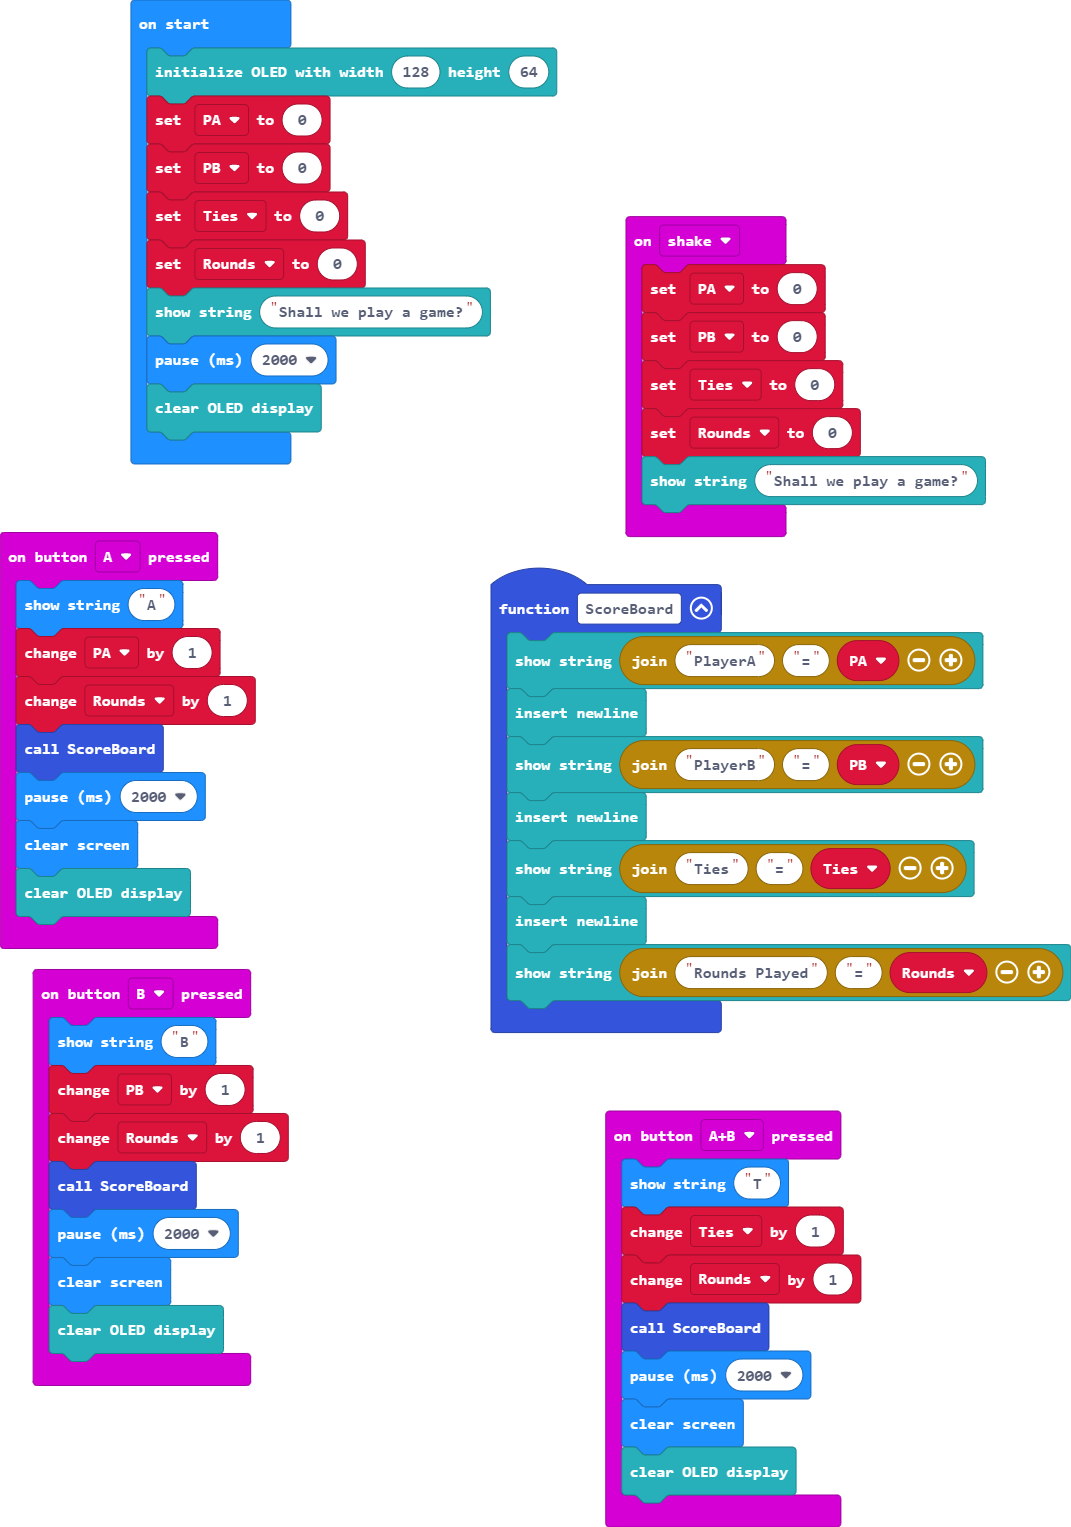
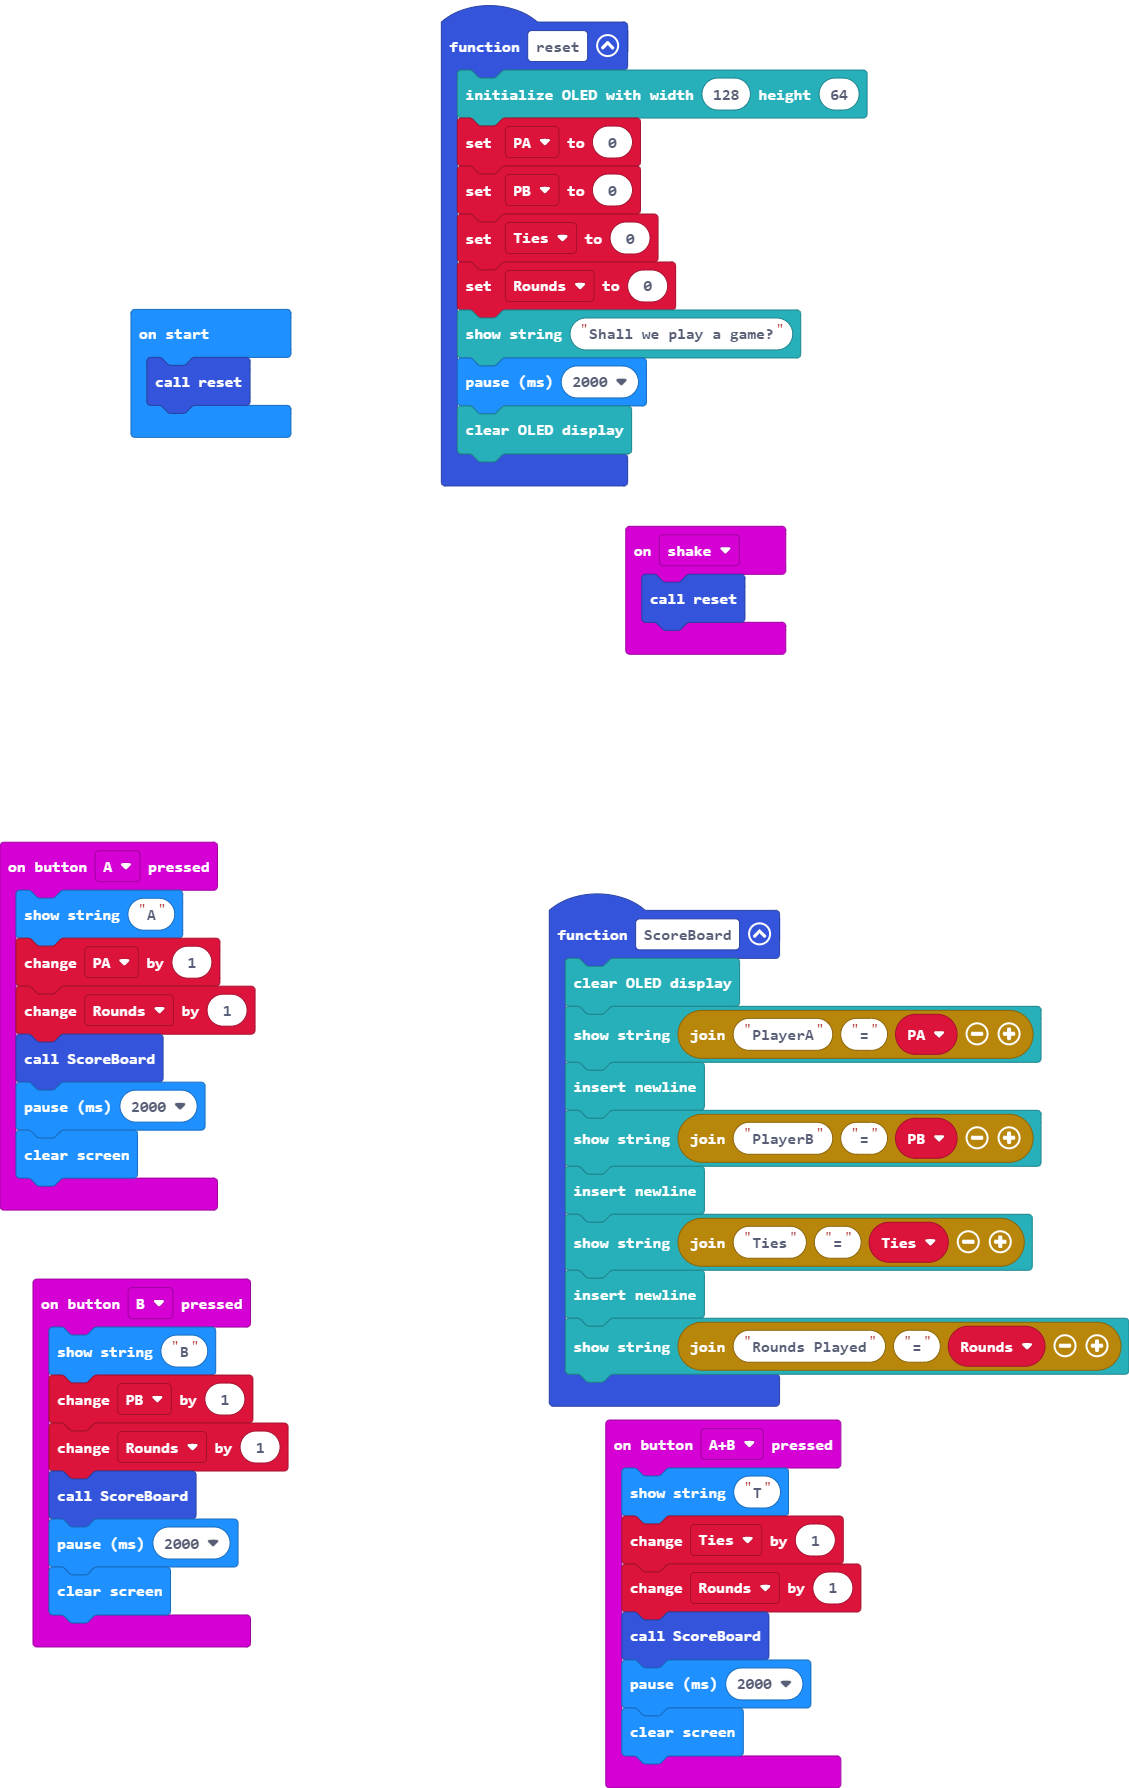
Update main.blocks, main.ts

diff --git a/main.ts b/main.ts
@@ -1,4 +1,5 @@
 function ScoreBoard () {
+    OLED.clear()
     OLED.writeStringNewLine("PlayerA" + "=" + PA)
     OLED.newLine()
     OLED.writeStringNewLine("PlayerB" + "=" + PB)
@@ -14,7 +15,6 @@ input.onButtonPressed(Button.A, function () {
     ScoreBoard()
     basic.pause(2000)
     basic.clearScreen()
-    OLED.clear()
 })
 input.onButtonPressed(Button.AB, function () {
     basic.showString("T")
@@ -23,7 +23,6 @@ input.onButtonPressed(Button.AB, function () {
     ScoreBoard()
     basic.pause(2000)
     basic.clearScreen()
-    OLED.clear()
 })
 input.onButtonPressed(Button.B, function () {
     basic.showString("B")
@@ -32,24 +31,22 @@ input.onButtonPressed(Button.B, function () {
     ScoreBoard()
     basic.pause(2000)
     basic.clearScreen()
-    OLED.clear()
 })
 input.onGesture(Gesture.Shake, function () {
+    reset()
+})
+function reset () {
+    OLED.init(128, 64)
     PA = 0
     PB = 0
     Ties = 0
     Rounds = 0
     OLED.writeStringNewLine("Shall we play a game?")
-})
+    basic.pause(2000)
+    OLED.clear()
+}
 let Rounds = 0
 let Ties = 0
 let PB = 0
 let PA = 0
-OLED.init(128, 64)
-PA = 0
-PB = 0
-Ties = 0
-Rounds = 0
-OLED.writeStringNewLine("Shall we play a game?")
-basic.pause(2000)
-OLED.clear()
+reset()
